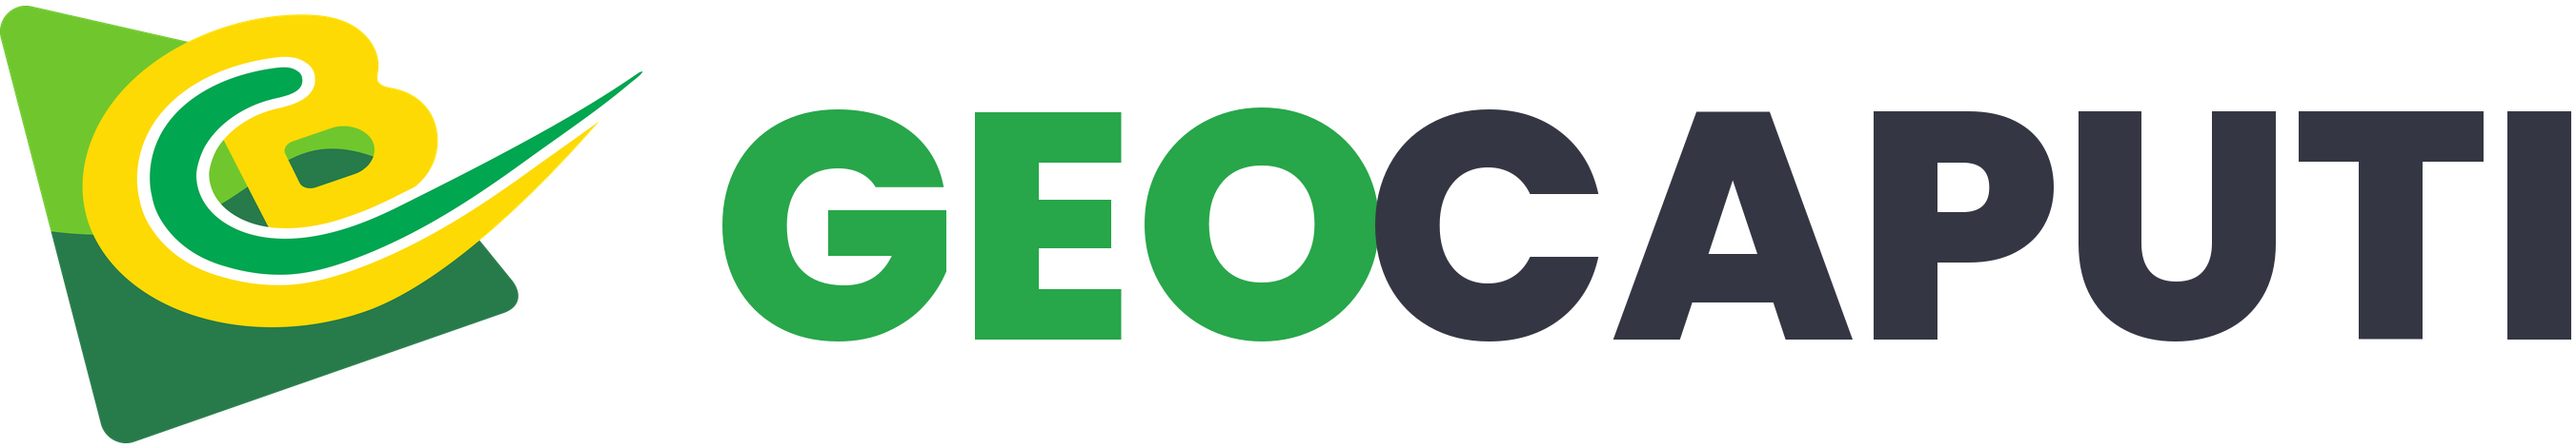
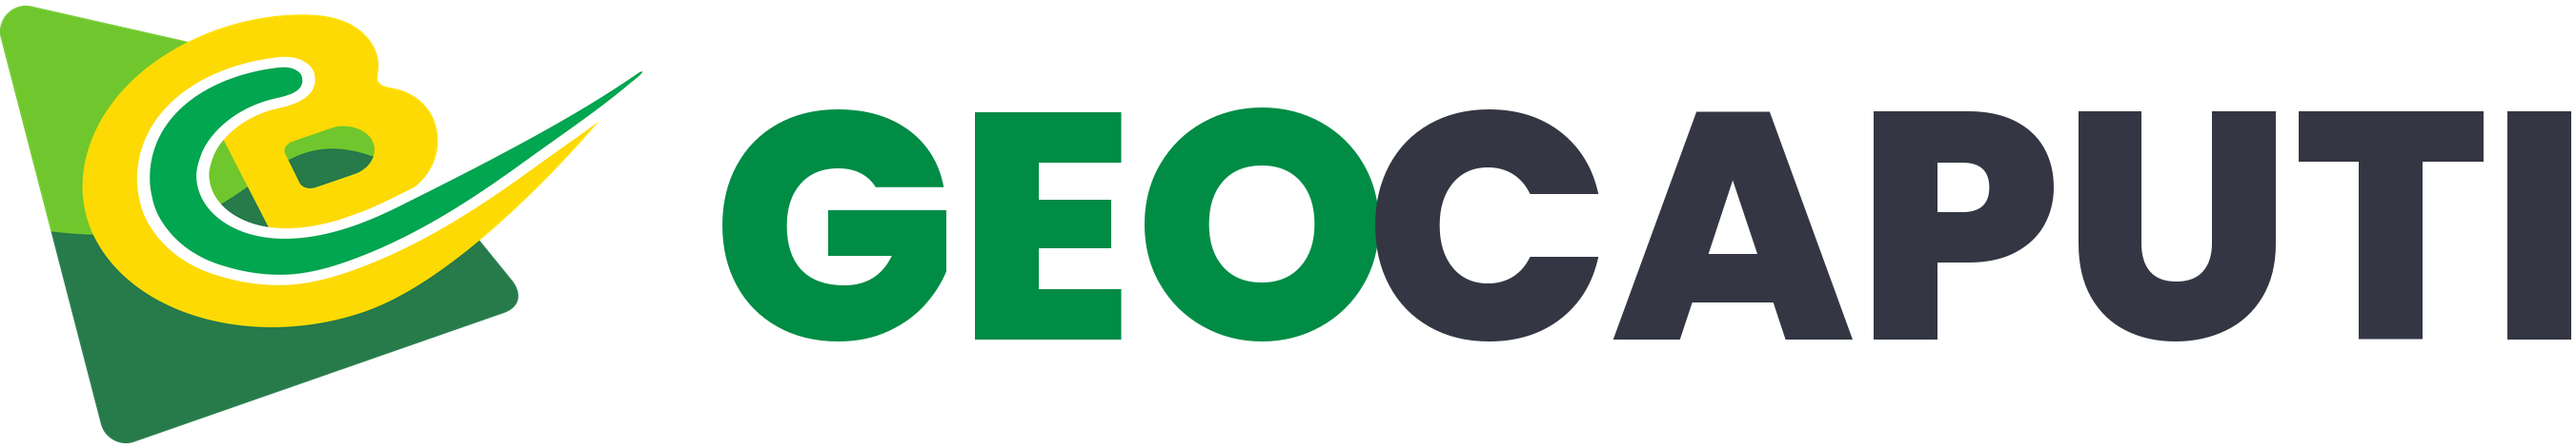
style(ui): alinha o app ao design system do site da Caputi
A partir do style.css do site (Projeto_site):
- Verde oficial da marca #008C45 (antes #27a64a) em tema, botoes, menu, foco,
  metricas; hover dos botoes no verde escuro #004d25.
- config.toml: fundo #f4f4f4, cards brancos, texto #1b1b1b.
- Fontes da marca: Inter no corpo, Montserrat nos titulos (via Google Fonts);
  titulos em verde escuro #004d25.
- Cards de metrica com raio 14px e sombra suave, como os cards do site.
- Logo do topo regenerado com o "GEO" no verde oficial #008C45.

Changed region(s): [[0.2797, 0.2378, 0.5594, 0.7728]]

diff --git a/app.py b/app.py
@@ -75,12 +75,22 @@ if not check_login():
 # --- CSS GLOBAL REFINADO ---
 st.markdown("""
     <style>
+    @import url('https://fonts.googleapis.com/css2?family=Inter:wght@400;500;600&family=Montserrat:wght@600;700&display=swap');
+
+    /* ============================================================
+       0. FONTES DA MARCA (Inter no corpo, Montserrat nos títulos)
+       ============================================================ */
+    html, body, .stApp, [data-testid="stAppViewContainer"],
+    [data-testid="stSidebar"], .stMarkdown, div[data-baseweb] {
+        font-family: 'Inter', -apple-system, Segoe UI, Roboto, sans-serif;
+    }
+
     /* ============================================================
        1. LAYOUT E ESPAÇAMENTO
        ============================================================ */
-    
+
     .block-container {
-        padding-top: 3.5rem !important; 
+        padding-top: 3.5rem !important;
         padding-bottom: 3rem;
     }
     
@@ -92,10 +102,11 @@ st.markdown("""
        2. TIPOGRAFIA E CORES
        ============================================================ */
     
-    h1, h2, h3, h4, h5 { 
-        font-family: 'Helvetica Neue', Helvetica, Arial, sans-serif; 
-        color: #2C3E50; 
-        font-weight: 600;
+    h1, h2, h3, h4, h5 {
+        font-family: 'Montserrat', 'Helvetica Neue', Arial, sans-serif !important;
+        color: #004d25;
+        font-weight: 700;
+        letter-spacing: -0.01em;
     }
     
     .stCaption {
@@ -126,8 +137,8 @@ st.markdown("""
        ============================================================ */
 
     div.stButton > button[kind="primary"] {
-        background-color: #27a64a !important;
-        border-color: #27a64a !important;
+        background-color: #008C45 !important;
+        border-color: #008C45 !important;
         color: white !important;
         font-weight: 600;
         border-radius: 6px;
@@ -135,8 +146,8 @@ st.markdown("""
     }
     
     div.stButton > button[kind="primary"]:hover {
-        background-color: #007f4d !important;
-        border-color: #007f4d !important;
+        background-color: #004d25 !important;
+        border-color: #004d25 !important;
         box-shadow: 0 4px 8px rgba(0,158,96,0.2);
         transform: translateY(-1px);
     }
@@ -163,13 +174,13 @@ st.markdown("""
        ============================================================ */
     
     div[data-baseweb="input"] > div:focus-within {
-        border-color: #27a64a !important;
+        border-color: #008C45 !important;
         box-shadow: none !important;
     }
 
     div[role="radiogroup"] label[data-baseweb="radio"] > div:first-child {
-        background-color: #27a64a !important; 
-        border-color: #27a64a !important;
+        background-color: #008C45 !important; 
+        border-color: #008C45 !important;
     }
 
     .stAlert {
@@ -182,12 +193,12 @@ st.markdown("""
        ============================================================ */
 
     div[data-testid="stMetric"] {
-        background: linear-gradient(135deg, #ffffff 0%, #f8f9fa 100%);
-        border: 1px solid #e9ecef;
-        border-left: 4px solid #27a64a;
-        border-radius: 12px;
+        background: #ffffff;
+        border: 1px solid rgba(0,0,0,0.07);
+        border-left: 4px solid #008C45;
+        border-radius: 14px;
         padding: 14px 14px;
-        box-shadow: 0 2px 8px rgba(0,0,0,0.04);
+        box-shadow: 0 1px 2px rgba(0,0,0,0.04);
     }
     div[data-testid="stMetricLabel"] p {
         font-size: 0.78rem !important;
@@ -298,7 +309,7 @@ styles_menu = {
         "padding-bottom": "12px",
         "--hover-color": "#eee"
     },
-    "nav-link-selected": {"background-color": "#27a64a", "font-weight": "600"},
+    "nav-link-selected": {"background-color": "#008C45", "font-weight": "600"},
 }
 
 # O componente streamlit-option-menu roda em um iframe e, quando o menu

diff --git a/confrontantes.py b/confrontantes.py
@@ -60,7 +60,7 @@ CSS_CONFRONTANTES = """
     background: linear-gradient(135deg, #ffffff 0%, #f8f9fa 100%);
     border-radius: 12px;
     padding: 18px 20px;
-    border-left: 4px solid #27a64a;
+    border-left: 4px solid #008C45;
     box-shadow: 0 2px 8px rgba(0,0,0,0.04);
     margin-bottom: 8px;
 }
@@ -168,7 +168,7 @@ CSS_CONFRONTANTES = """
 .detalhe-codigo {
     font-family: 'SF Mono', Monaco, 'Courier New', monospace;
     font-size: 0.85rem;
-    color: #27a64a;
+    color: #008C45;
     background: #e8f5e9;
     padding: 2px 8px;
     border-radius: 4px;

diff --git a/ui.py b/ui.py
@@ -10,8 +10,8 @@ o seu estilo. Importe com `import ui` e use `ui.secao(...)`, `ui.COR_PERIMETRO`,
 import streamlit as st
 
 # ---- Paleta (mesma identidade do app: verde + chumbo) ----
-VERDE = "#27a64a"
-VERDE_ESCURO = "#007f4d"
+VERDE = "#008C45"
+VERDE_ESCURO = "#004d25"
 CHUMBO = "#2C3E50"
 
 # Cor do PERÍMETRO do imóvel analisado — uma só em todo o app (lê bem no
